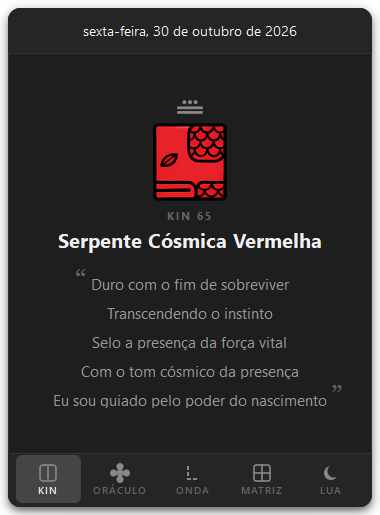
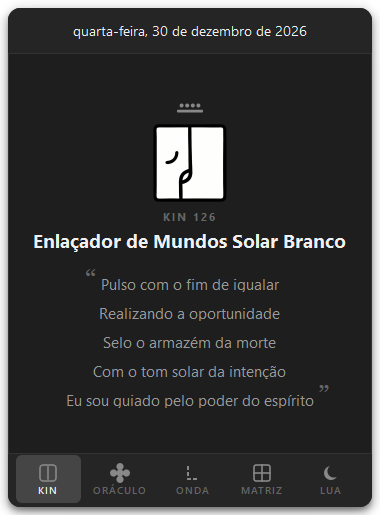
docs: atualiza capturas de tela para Kin 126 Enlaçador de Mundos Solar Branco

diff --git a/capture_screens.py b/capture_screens.py
@@ -2,9 +2,10 @@ import os
 import sys
 from datetime import date
 from PySide6.QtWidgets import QApplication
-from PySide6.QtCore import Qt, QPoint
+from PySide6.QtCore import Qt
 
 from ui.popup_window import KinPopupWindow, DatePickerDialog
+import kin_calculator
 
 def main():
     app = QApplication(sys.argv)
@@ -12,7 +13,12 @@ def main():
     os.makedirs(output_dir, exist_ok=True)
 
     window = KinPopupWindow()
-    target_date = date.today()
+    
+    # Target Kin 126: Enlaçador de Mundos Solar Branco
+    target_kin = 126
+    target_date = kin_calculator.find_date_for_kin(target_kin, date.today())
+    print(f"Configuring window for Kin {target_kin} - Date: {target_date}")
+    
     window.update_for_date(target_date)
     window.show()
     app.processEvents()
@@ -38,7 +44,7 @@ def main():
         pixmap.save(filepath, "PNG")
         print(f"Saved {filepath} ({pixmap.width()}x{pixmap.height()}) - {title}")
 
-    # Also capture Date Picker Dialog
+    # Also capture Date Picker Dialog for this date
     picker = DatePickerDialog(target_date, window)
     picker.show()
     app.processEvents()
@@ -48,13 +54,8 @@ def main():
     print(f"Saved {picker_path} ({picker_pix.width()}x{picker_pix.height()}) - Seletor de Data")
     picker.close()
 
-    # Clean up test file if it exists
-    test_file = os.path.join(output_dir, "test_window.png")
-    if os.path.exists(test_file):
-        os.remove(test_file)
-
     window.close()
-    print("All screenshots generated successfully!")
+    print(f"All screenshots for Kin {target_kin} generated successfully!")
 
 if __name__ == "__main__":
     main()
